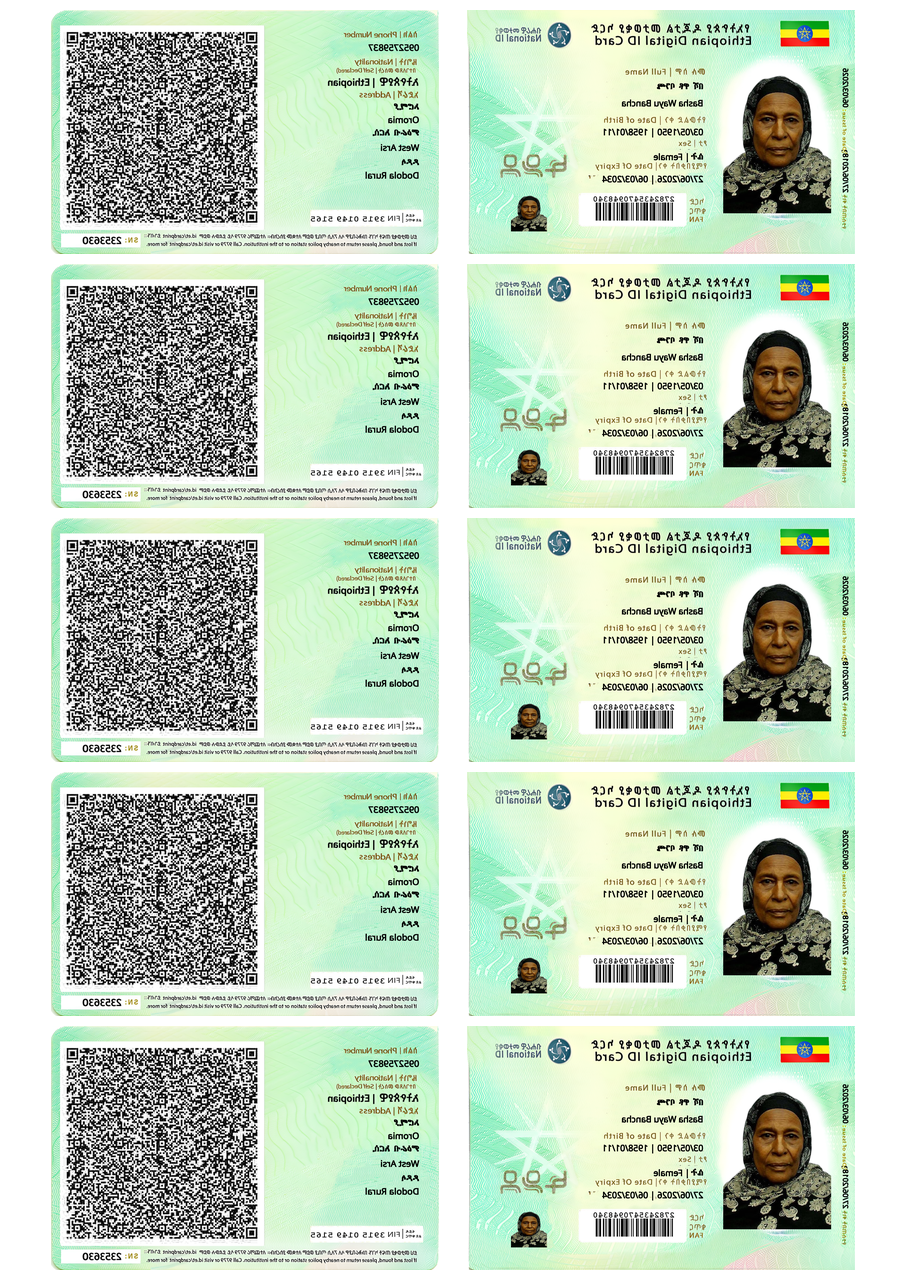
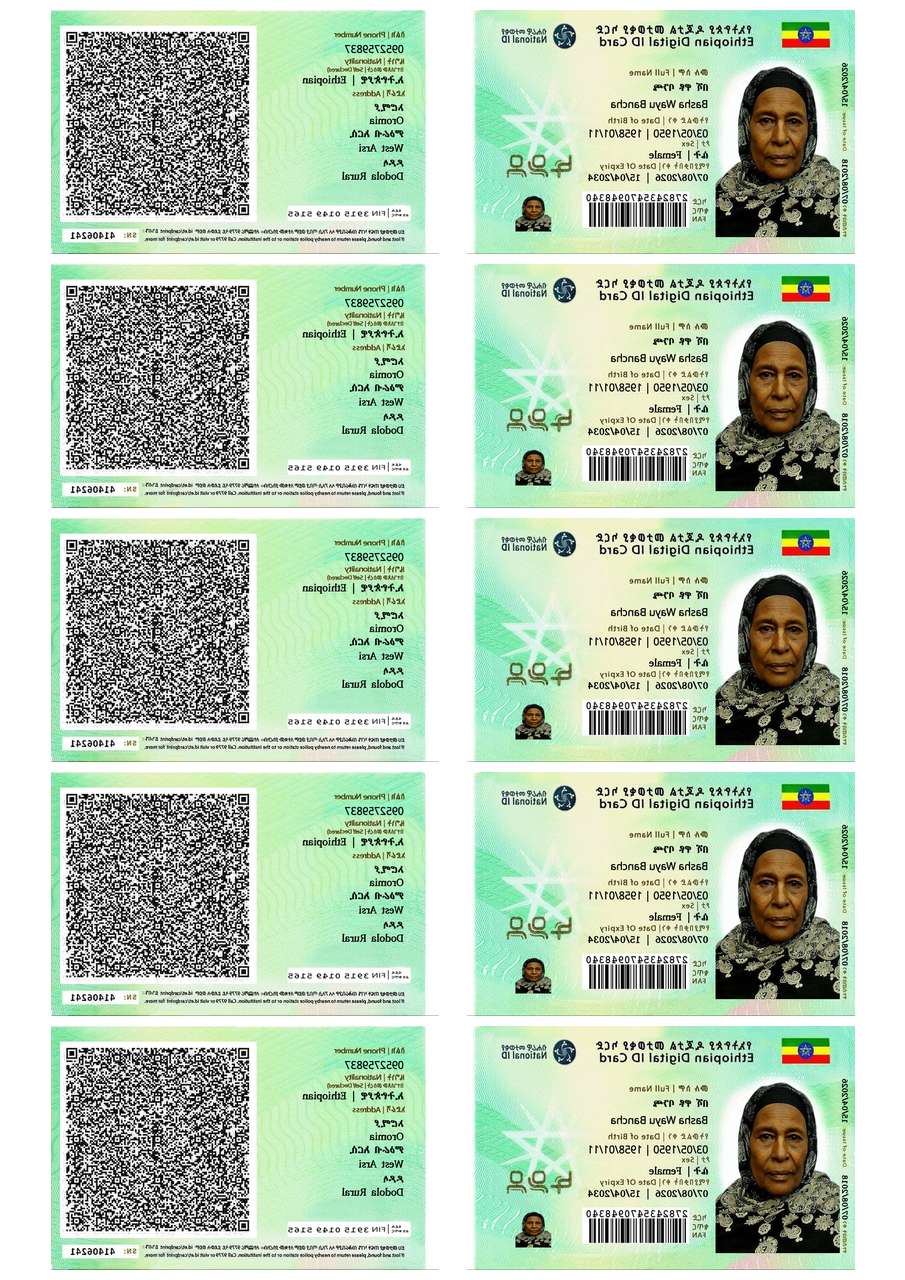
fixing font issue

diff --git a/services/processing_service.py b/services/processing_service.py
@@ -105,9 +105,11 @@ class ProcessingService:
                         generator_func,
                         pdf_path=pdf_file,
                         output_dir=output_dir,
+                        font_amharic="./fonts/truetype/abyssinica/AbyssinicaSIL-Regular.ttf",
+                        font_english="./fonts/truetype/noto/NotoSans-Regular.ttf",
+                        font_size=17,
+                        boldness=0.5,
                         dpi=600,
-                        font_size=35 if template == "A" else 20,
-                        boldness=1.5 if template == "A" else 0.5,
                         color=color
                     )
 
@@ -208,9 +210,11 @@ class ProcessingService:
                             generator_func,
                             pdf_path=pdf_file,
                             output_dir=output_dir,
+                            font_amharic="./fonts/truetype/abyssinica/AbyssinicaSIL-Regular.ttf",
+                            font_english="./fonts/truetype/noto/NotoSans-Regular.ttf",
+                            font_size=17,
+                            boldness=0.5,
                             dpi=600,
-                            font_size=35 if template == "A" else 20,
-                            boldness=1.5 if template == "A" else 0.5,
                             color=color
                         )
                 
